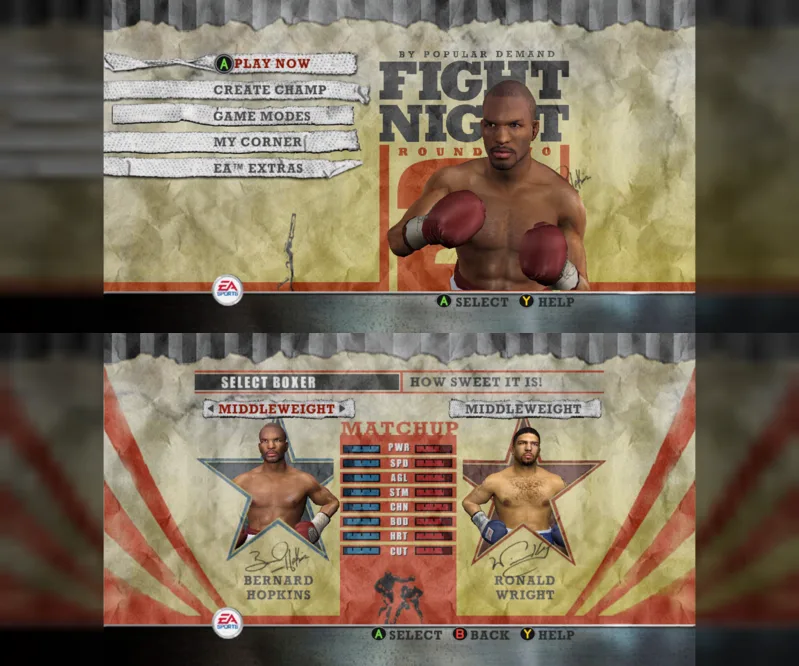
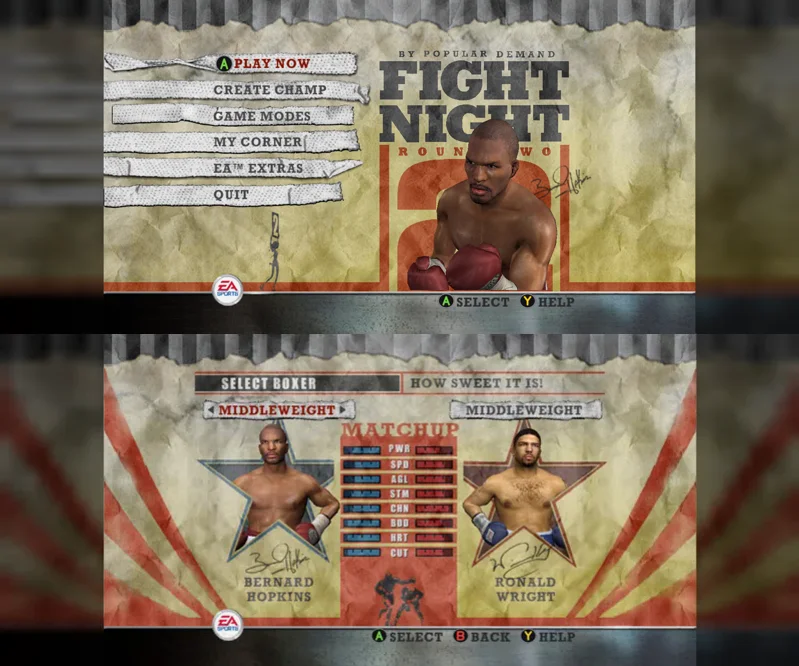
v1.0 again: README and release notes with new GPU-VM screenshots (PC settings in the game's menus, achievements, the widen)
Claude-Session: https://claude.ai/code/session_01SinUEj9kyYxwrJxiWKuydx

diff --git a/README.md b/README.md
@@ -15,7 +15,7 @@
 </p>
 
 <p align="center">
-  <img src="docs/img/fightnight2-hero.webp" alt="Bernard Hopkins landing a punch on Winky Wright at the Staples Center, at 21:9 with the health and stamina bars in proportion" width="800">
+  <img src="docs/img/fightnight2-hero.webp" alt="Bernard Hopkins and Winky Wright at the Staples Center, at 21:9 with the health and stamina bars in proportion" width="800">
 </p>
 
 **The 2005 Xbox boxing game, running natively on PC.** This is not an emulator. The game's own x86 code is statically
@@ -34,6 +34,7 @@ away.
 - [Widescreen and the HUD](#widescreen-and-the-hud)
 - [Smooth motion](#smooth-motion)
 - [PC Settings](#pc-settings)
+- [Achievements](#achievements)
 - [Graphics settings](#graphics-settings)
 - [Controls](#controls)
 - [Requirements](#requirements)
@@ -63,16 +64,18 @@ the game's own picture, and with smooth motion on, the fights at your frame rate
 
 | | |
 |---|---|
-| **Widescreen** | True proportions on any screen, 21:9 and wider included. The fights fill the screen with the arena's view widened; the menus keep their 16:9 shape in the middle with a dimmed, blurred copy filling the sides. |
+| **Widescreen** | True proportions on any screen, 21:9 and wider included. The fights fill the screen with the arena's view widened; the menus keep their 16:9 shape in the middle with a dimmed, blurred copy filling the sides, and the sides open out over half a second as a fight starts. |
 | **Aspect, changed as you play** | From the screen's shape, 16:9 or fill the screen, applied at once, mid-fight too. |
 | **HUD in proportion** | The health and stamina bars, the menus and the button pictures keep their shape and size on any screen: on a wide one they stay where a 16:9 TV shows them, never stretched. **F9** hides the HUD for screenshots. |
 | **Smooth motion** | The game moves its fighters 50 times a second; turned on, the fights are drawn with frames in between, up to your frame rate cap: the camera and the ring glide at 144 or 240 frames a second. The game's speed is unchanged. |
 | **Sharper graphics** | Render scale up to 200%, MSAA up to 8x, FXAA or SMAA, sharpening, anisotropic filtering, enhanced textures, and sharp text and HUD. |
-| **PC Settings** | **F1** opens the settings window anywhere, over the game. Saved in `settings.toml`. |
+| **PC Settings** | **F1** opens the settings window anywhere, over the game; the main ones are also in the game's own menus: **X** on Options and **X** on the pause menu. Saved in `settings.toml`. |
+| **Achievements** | 10, for the Career's wins, knockouts and belts, a created champ, the fight store and a retirement, kept in `achievements.toml` beside the game. |
+| **Unlock everything** | One setting (the **Game** page) makes every venue, boxer, and Create Champ and fight store item available; your save keeps its own progress. |
 | **Mouse and keyboard** | Total Punch Control on the mouse: flick it for jabs, hooks and uppercuts, as the right stick. WASD moves, Shift leans, Space or the right mouse button blocks. |
 | **Mouse in the menus** | Click to choose, right click goes back, the wheel moves the selection. |
 | **Controllers** | Xbox, PlayStation and Switch pads with hot plugging and rumble. **Modern button pictures** show today's Xbox pad: LB and RB for White and Black, LT and RT, View and Menu. |
-| **Quality of life** | Skip the intro movies, hide the HUD (F9), F12 screenshots at full resolution, Alt+Enter for full screen, English, German or French, an optional boot splash (`splash.png` beside the game). |
+| **Quality of life** | Skip the intro movies, Quit Game on the title menu, hide the HUD (F9), F12 screenshots at full resolution, Alt+Enter for full screen, English, German or French, an optional boot splash (`splash.png` beside the game). |
 
 ## Widescreen and the HUD
 <sup>[(Back to top)](#table-of-contents)</sup>
@@ -93,6 +96,9 @@ changed in the settings while you fight, and the view follows at once; a 4:3 cho
   <br>
   <i>The menus keep their 16:9 shape on a wide screen, a dimmed, blurred copy at the sides.</i>
 </p>
+
+From the menus into a fight, the picture does not jump to the wider shape: the arena's sides open out over about half a
+second.
 
 The walk-ins, the replays and the knockdowns fill the screen as the fights do. The movies keep their 4:3 shape, with black at the sides.
 
@@ -121,10 +127,38 @@ Page Up and Page Down) change its page; changes apply at once unless the page sa
 |---|---|
 | **Display** | Monitor, display mode (full screen, borderless, window), resolution, vertical sync, aspect ratio |
 | **Graphics** | Render scale, texture filtering, frame rate cap, MSAA, smooth alpha edges, edge smoothing (FXAA, SMAA), scaling filter, enhanced textures, sharpening, CRT look, low latency, frames a second shown, sharp text and HUD, the renderer (Direct3D 12 or 11) |
-| **Game** | Language (English, German, French), modern button pictures, skip intro movies, hide the HUD, smooth motion |
+| **Game** | Language (English, German, French), modern button pictures, skip intro movies, hide the HUD, smooth motion, unlock everything |
 | **General**, **Controls** | Pausing when the window is not in front; key and button bindings, the mouse and the sticks |
 
 Everything is saved in `settings.toml` beside the game.
+
+<p align="center">
+  <img src="docs/img/fightnight2-pc-in-game.webp" alt="PC settings in the game's own Settings screen from Options, and the PC SETTINGS panel on the pause menu in a fight" width="800">
+  <br>
+  <i>The PC settings in the game's own menus: X on Options (My Corner), and X on the pause menu in a fight.</i>
+</p>
+
+The main PC settings are in the game's own menus too, in its style and with the pad. **X** on Options (My Corner >
+Options) opens the Settings screen with the PC settings in place of the game's: display mode, frame rate cap, edge
+smoothing, vertical sync, smooth motion, aspect ratio and more; A keeps the changes, B leaves them. **X** on the pause
+menu in a fight opens a PC SETTINGS panel with smooth motion, frame rate cap, vertical sync, render scale, MSAA, edge
+smoothing and the frames a second shown.
+
+## Achievements
+<sup>[(Back to top)](#table-of-contents)</sup>
+
+10 achievements, 315 points, kept in `achievements.toml` beside the game. The settings window's **Achievements** page
+lists them with your unlocks.
+
+| Achievement | How | Points |
+|---|---|---|
+| Turning Pro / Lights Out | Win your first professional fight in Career / win one by knockout | 10 each |
+| Contender / Knockout Artist | Win 10 professional fights / score 10 knockouts in one Career | 25 each |
+| Perfect Record | Go 10-0 as a professional | 50 |
+| Champion / Undisputed | Win a title belt / hold three at once | 50 / 100 |
+| Self Made | Create a champ | 10 |
+| Dressed to Win | Buy something in the fight store | 10 |
+| Hang Them Up | Retire a boxer at the end of a Career | 25 |
 
 ## Graphics settings
 <sup>[(Back to top)](#table-of-contents)</sup>
@@ -269,14 +303,12 @@ when you report a problem on the <a href="https://discord.gg/PQjkKsdtc">Discord 
 <sup>[(Back to top)](#table-of-contents)</sup>
 
 - **Smooth motion:** the boxers' limbs move at the game's 50 a second while the camera and the ring are smooth.
-- **Button pictures:** the menus' tab markers still show the old pad's L and R.
 - **My Gym:** the drills' instruction pop-ups stay at 16:9 in the middle of a wide screen.
 - **Not yet covered by testing:** NVIDIA graphics cards.
 
 ## Roadmap
 <sup>[(Back to top)](#table-of-contents)</sup>
 
-- **Achievements**, for knockouts, titles and the career.
 - **The boxers' limbs smooth too** with smooth motion, on every graphics card.
 
 ## Community and support

diff --git a/docs/releases/v1.0.md b/docs/releases/v1.0.md
@@ -7,15 +7,20 @@ your disc or a folder with its files. The game is built on your PC from your dis
 ## What's in it
 
 - **True widescreen**, 21:9 and wider included, with the HUD and menus kept in proportion; the aspect changes as you
-  fight. The menus keep their 16:9 shape with a blurred copy at the sides.
+  fight. The menus keep their 16:9 shape with a blurred copy at the sides, and the arena's sides open out smoothly as
+  a fight starts.
 - **Smooth motion** (optional): the fights drawn at your frame rate, 144 or 240 frames a second, with the game
   moving at its own 50 a second.
 - **Sharper graphics:** render scale up to 200%, MSAA up to 8x, FXAA or SMAA, sharpening, anisotropic filtering,
   enhanced world textures, and sharp text and HUD.
 - **Mouse and keyboard:** Total Punch Control on the mouse, WASD to move, and the mouse in the menus.
 - **Controllers:** Xbox, PlayStation and Switch pads with hot plugging and rumble, and modern button pictures.
-- **PC settings:** F1 opens the settings window anywhere; skip the intro movies, hide the HUD (F9), F12 screenshots,
-  English, German or French.
+- **PC settings:** F1 opens the settings window anywhere, and the main ones are in the game's own menus too: X on
+  Options and X on the pause menu in a fight. Skip the intro movies, hide the HUD (F9), F12 screenshots, English,
+  German or French.
+- **Achievements:** 10, for the Career's wins, knockouts and belts, a created champ, the fight store and a retirement.
+- **Unlock everything:** one setting makes every venue, boxer and item available; your save keeps its own progress.
+- **Quit Game** on the title menu, and the menus' tab markers drawn as today's LT and RT.
 
 ## Getting started
 
@@ -34,7 +39,7 @@ free besides your copy of the game.
 
 - Tested on AMD and Intel Arc graphics; NVIDIA cards are expected to work but have not been tested yet.
 - With smooth motion the boxers' limbs move at the game's 50 a second while the camera and the ring are smooth.
-- The menus' tab markers still show the old pad's L and R; the gym drills' pop-ups stay at 16:9.
+- The gym drills' pop-ups stay at 16:9.
 
 Problems and questions: the [Discord server](https://discord.gg/PQjkKsdtc). Please include `launcher.log` (beside the
 launcher) or the log in `FightNight2\play\logs`.

diff --git a/PROGRESS.md b/PROGRESS.md
@@ -19,6 +19,15 @@ Newest first. Each entry: date, what changed, what was learned, what's next.
 
 ## Log
 
+### 2026-11-27 - v1.0 tagged again (Harry removed the first v1.0 release)
+Harry tested 5e1f0be ("All working") and asked for the release again as v1.0, with new screenshots. README: from the
+GPU-VM (1920x800, D3D12, aspect screen) a new hero (the Staples Center, round 1), the main menu with Quit (the top of
+fightnight2-menus.webp; Select Boxer kept), fightnight2-pc-in-game.webp (X on Options' Settings screen and the pause
+menu's PC SETTINGS panel); text for the in-game PC settings, the widen into a fight, Unlock everything, Quit Game and an
+Achievements section (10, 315 points); the tab markers' known issue and the roadmap's achievements gone.
+docs/releases/v1.0.md the same. Smoke OK. The old tag v1.0 (d74d861) deleted from GitHub and v1.0 tagged at main; the
+workflow makes the draft with the launcher. Next: recomp-vm builds the package from a clean clone of the tag.
+
 ### 2026-11-27 - Ultrawide: no pop at the change of shape (a frame's shape carried by its draws)
 Harry: still a pop as the widescreen opens. Cause: the renderers reshaped their targets and cropped the shown frame by
 the shape decided *now*, while what they drew and showed was a frame behind (the render thread) or a step behind
